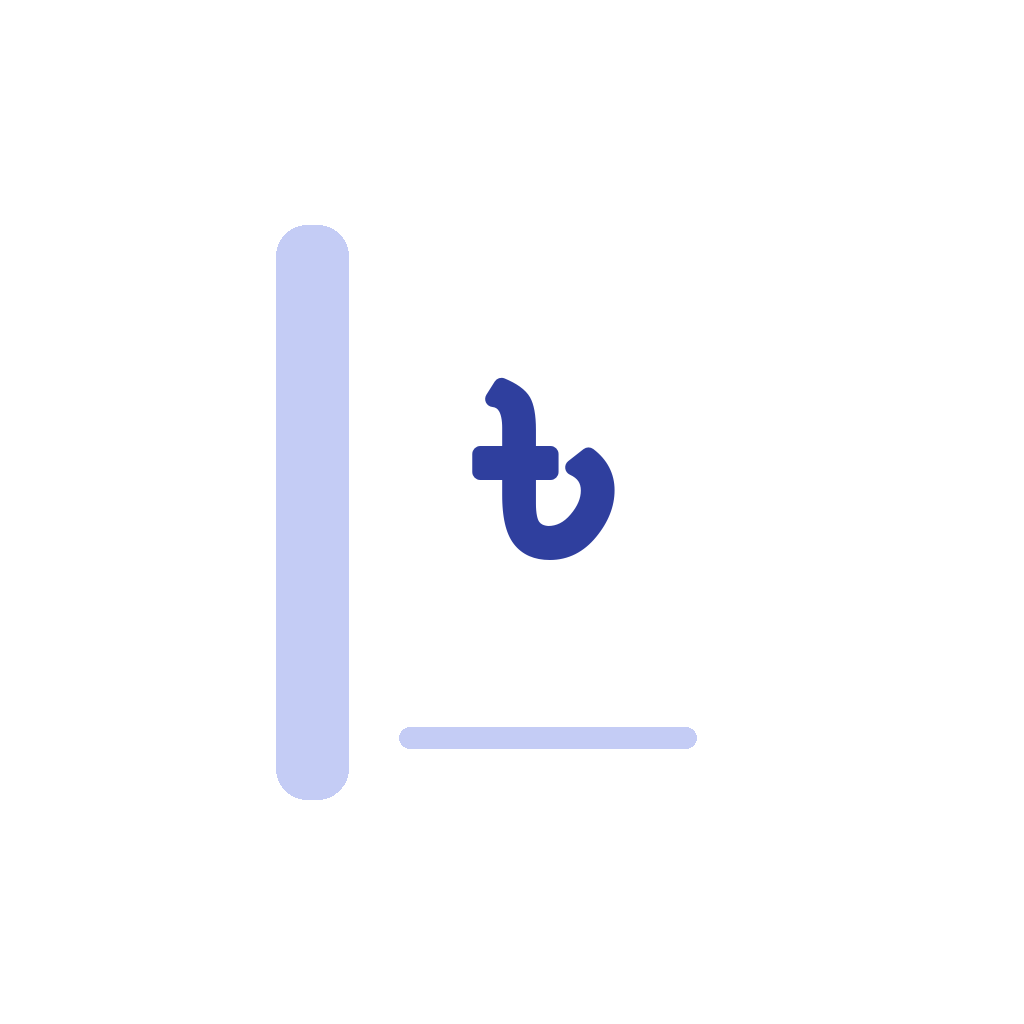
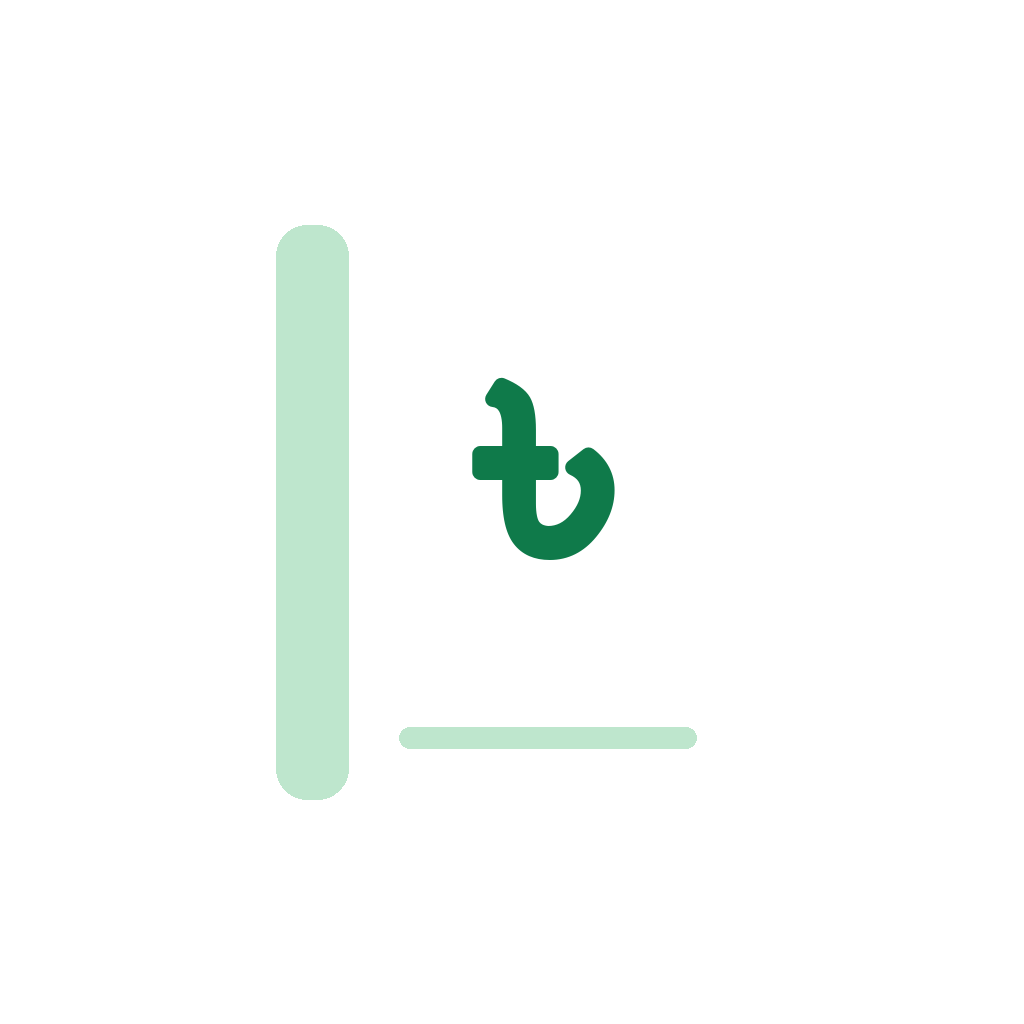
Add files via upload

Changed region(s): [[0.25, 0.2188, 0.3438, 0.7812], [0.375, 0.6875, 0.6875, 0.75], [0.4375, 0.375, 0.625, 0.5625]]

diff --git a/prepare-android.py b/prepare-android.py
@@ -27,7 +27,7 @@ for d, (l, f) in dens.items():
 os.makedirs(res + "/values", exist_ok=True)
 with open(res + "/values/ic_launcher_background.xml", "w") as fh:
     fh.write('<?xml version="1.0" encoding="utf-8"?>\n<resources>\n'
-             '    <color name="ic_launcher_background">#2F3F9E</color>\n</resources>\n')
+             '    <color name="ic_launcher_background">#0F7A4A</color>\n</resources>\n')
 
 # plain colour splash instead of the default image
 for f in glob.glob(res + "/drawable*/splash.png"):
@@ -36,7 +36,7 @@ os.makedirs(res + "/drawable", exist_ok=True)
 with open(res + "/drawable/splash.xml", "w") as fh:
     fh.write('<?xml version="1.0" encoding="utf-8"?>\n'
              '<layer-list xmlns:android="http://schemas.android.com/apk/res/android">\n'
-             '    <item><shape android:shape="rectangle"><solid android:color="#2F3F9E"/></shape></item>\n'
+             '    <item><shape android:shape="rectangle"><solid android:color="#0F7A4A"/></shape></item>\n'
              '</layer-list>\n')
 
 gp = "android/app/build.gradle"
